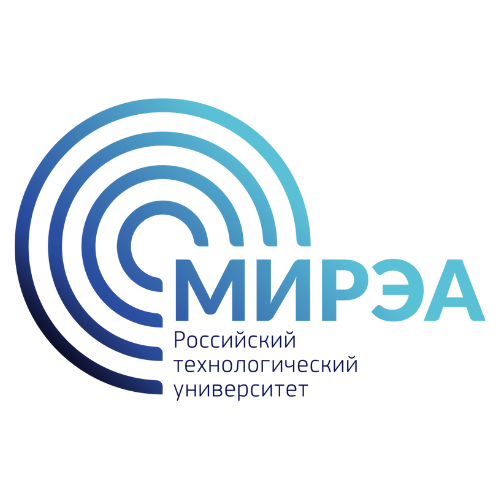
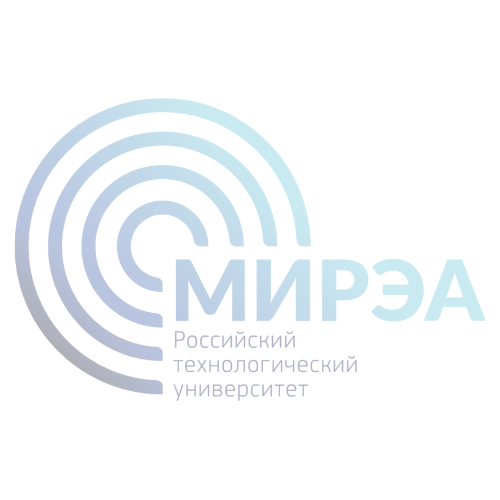
Криулин

Changed region(s): [[0.03, 0.18, 0.99, 0.81]]

diff --git a/src/layouts/MainLayout/MainLayout.module.css b/src/layouts/MainLayout/MainLayout.module.css
@@ -1,6 +1,6 @@
 .root {
-    --video-width: 750px;
-    --video-height: 410px;
+    --video-width: 50vw;
+    --video-height: 60vh;
     --top-padding: 20px;
     display: flex;
     flex-wrap: nowrap;
@@ -46,8 +46,8 @@
 
 .detectionBlock {
     margin-top: -22px;
-    width: calc(var(--video-width) - 10px);
-    height: calc(100vh - var(--video-height) - 2 * var(--top-padding));
+    width: var(--video-width);
+    height: calc(100vh - var(--video-height) - 3 * var(--top-padding));
 }
 
 .spinnerBlock {
@@ -58,6 +58,9 @@
     margin-left: 16px;
     max-height: calc(100vh - 2 * var(--top-padding));
     width: calc(100vw - var(--video-width));
+    background-image: url("../../rtu-mirea.png");
+    background-repeat: no-repeat;
+    background-position: center center;
 }
 
 .spinnerBlock::-webkit-scrollbar {
@@ -91,5 +94,7 @@
     top: 30%;
     left: 10%;
     width: 80%;
-    opacity: 0.3;
+    /* opacity: 0.3; */
+    /* z-index: 0; */
+    border-radius: 20px;
 }

diff --git a/src/components/history-card/HistoryCard.module.css b/src/components/history-card/HistoryCard.module.css
@@ -1,13 +1,13 @@
 .root {
-    --top-padding: 8px;
     box-sizing: border-box;
     display: flex;
     flex-wrap: wrap;
     align-items: center;
     justify-content: space-around;
-    padding: var(--top-padding);
+    padding: 18px;
     background: var(--secondary-color);
     box-shadow: 4px 4px 8px rgba(0, 0, 0, 0.3);
+    z-index: 2;
 }
 
 .name,
@@ -20,13 +20,13 @@
 .name {
     margin-bottom: 4px;
     width: 100%;
-    font-size: 16px;
+    font-size: 1.5vw;
     font-weight: 600;
 }
 
 .desc {
     overflow: hidden;
     max-width: 90%;
-    font-size: 11px;
+    font-size: 1.2vw;
     text-overflow: ellipsis;
 }

diff --git a/src/layouts/MainLayout/MainLayout.tsx b/src/layouts/MainLayout/MainLayout.tsx
@@ -3,8 +3,6 @@ import LiveStream from "components/live-stream/LiveStream";
 import DetectionCard from "components/detection-card/DetectionCard";
 import HistoryCard from "components/history-card/HistoryCard";
 import styles from "./MainLayout.module.css";
-import logo from "../../logo.svg";
-import logo_png from "../../rtu-mirea.png";
 import API from "../../api/api.js";
 import {Item} from './types';
 
@@ -72,7 +70,6 @@ function MainLayout() {
             />
           );
         })}
-        <img className={styles.logo} src={logo_png} alt="MIREA logo" />
       </section>
     </main>
   );

diff --git a/src/components/detection-card/DetectionCard.module.css b/src/components/detection-card/DetectionCard.module.css
@@ -38,12 +38,13 @@
 .name {
     margin-bottom: 8px;
     width: 100%;
-    font-size: 20px;
+    font-size: 2vw;
     font-weight: 600;
 }
 
 .desc {
     overflow: hidden;
     max-width: 90%;
+    font-size: 1.5vw;
     text-overflow: ellipsis;
 }
